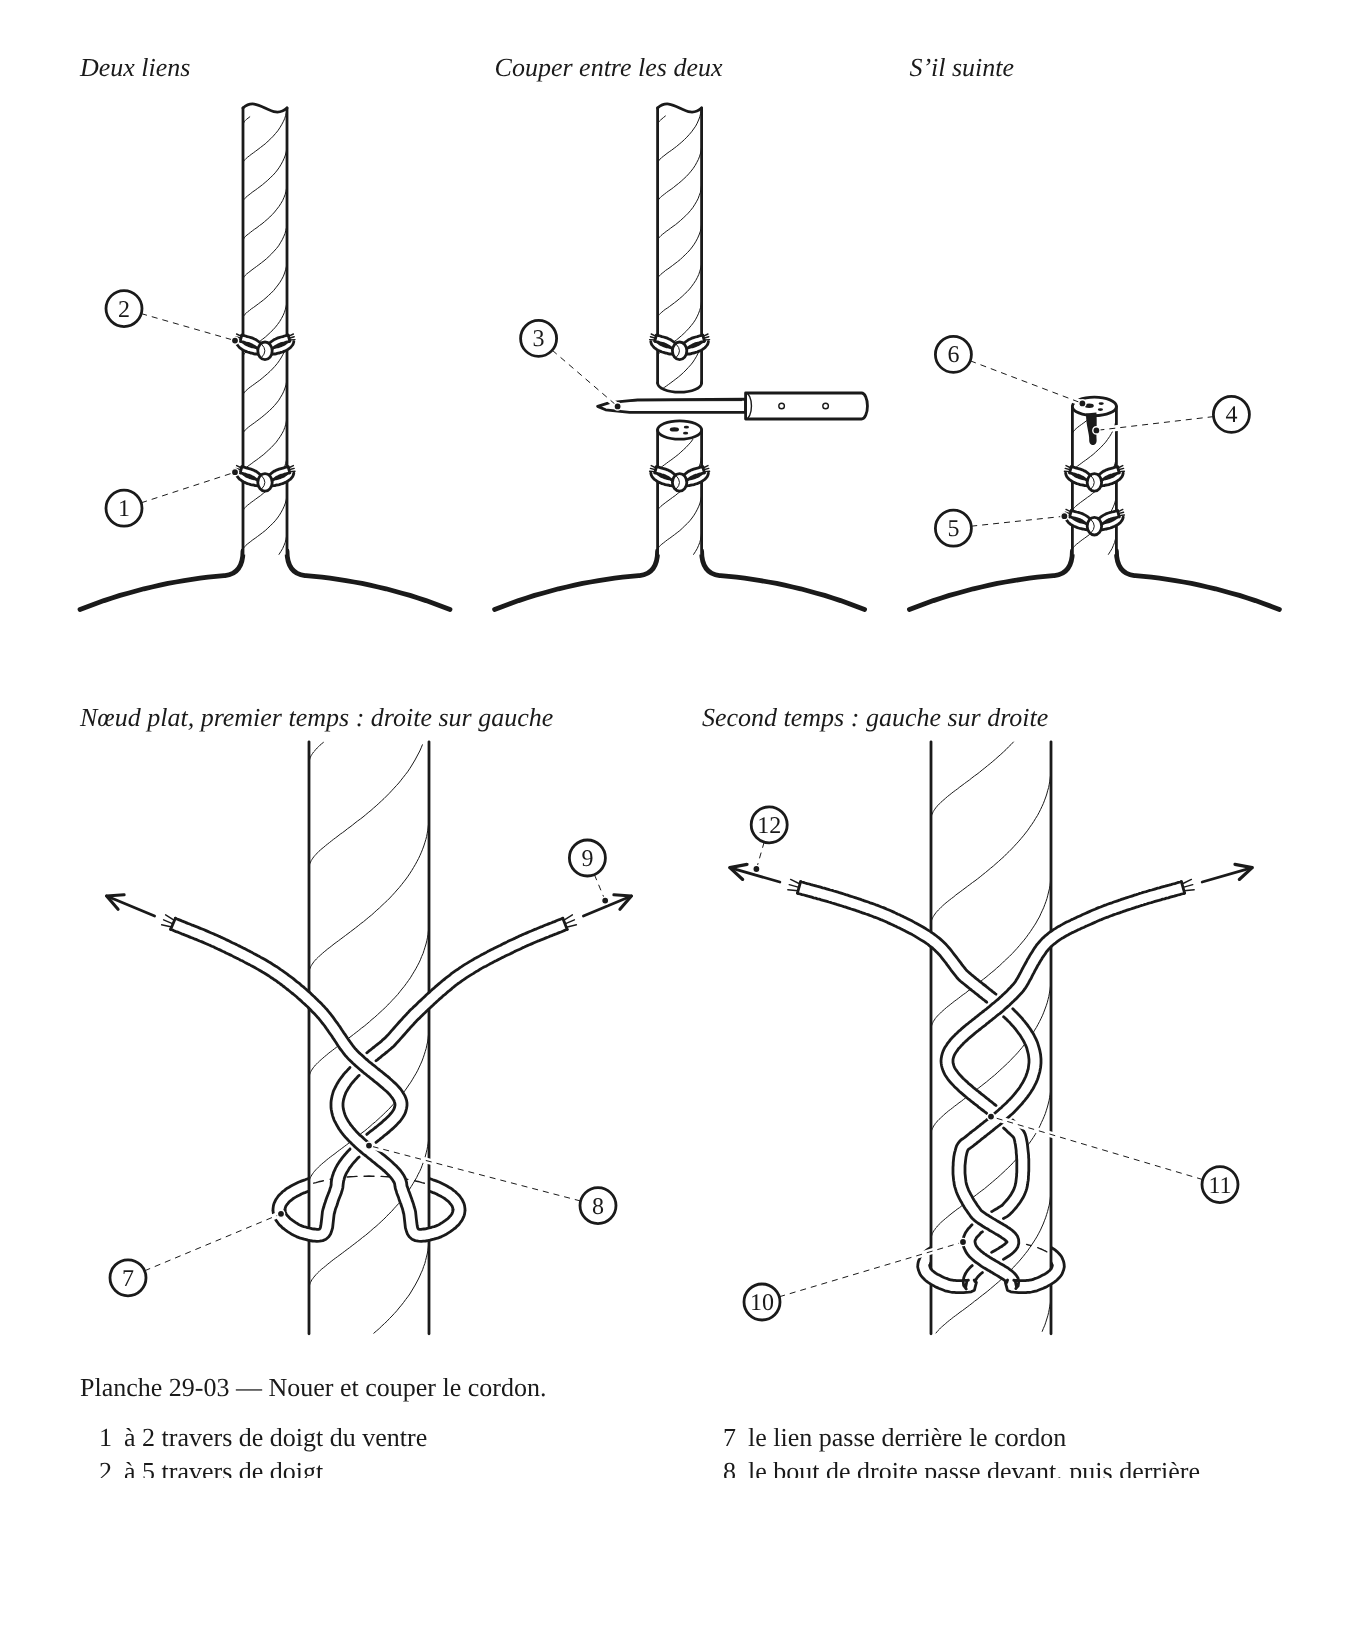
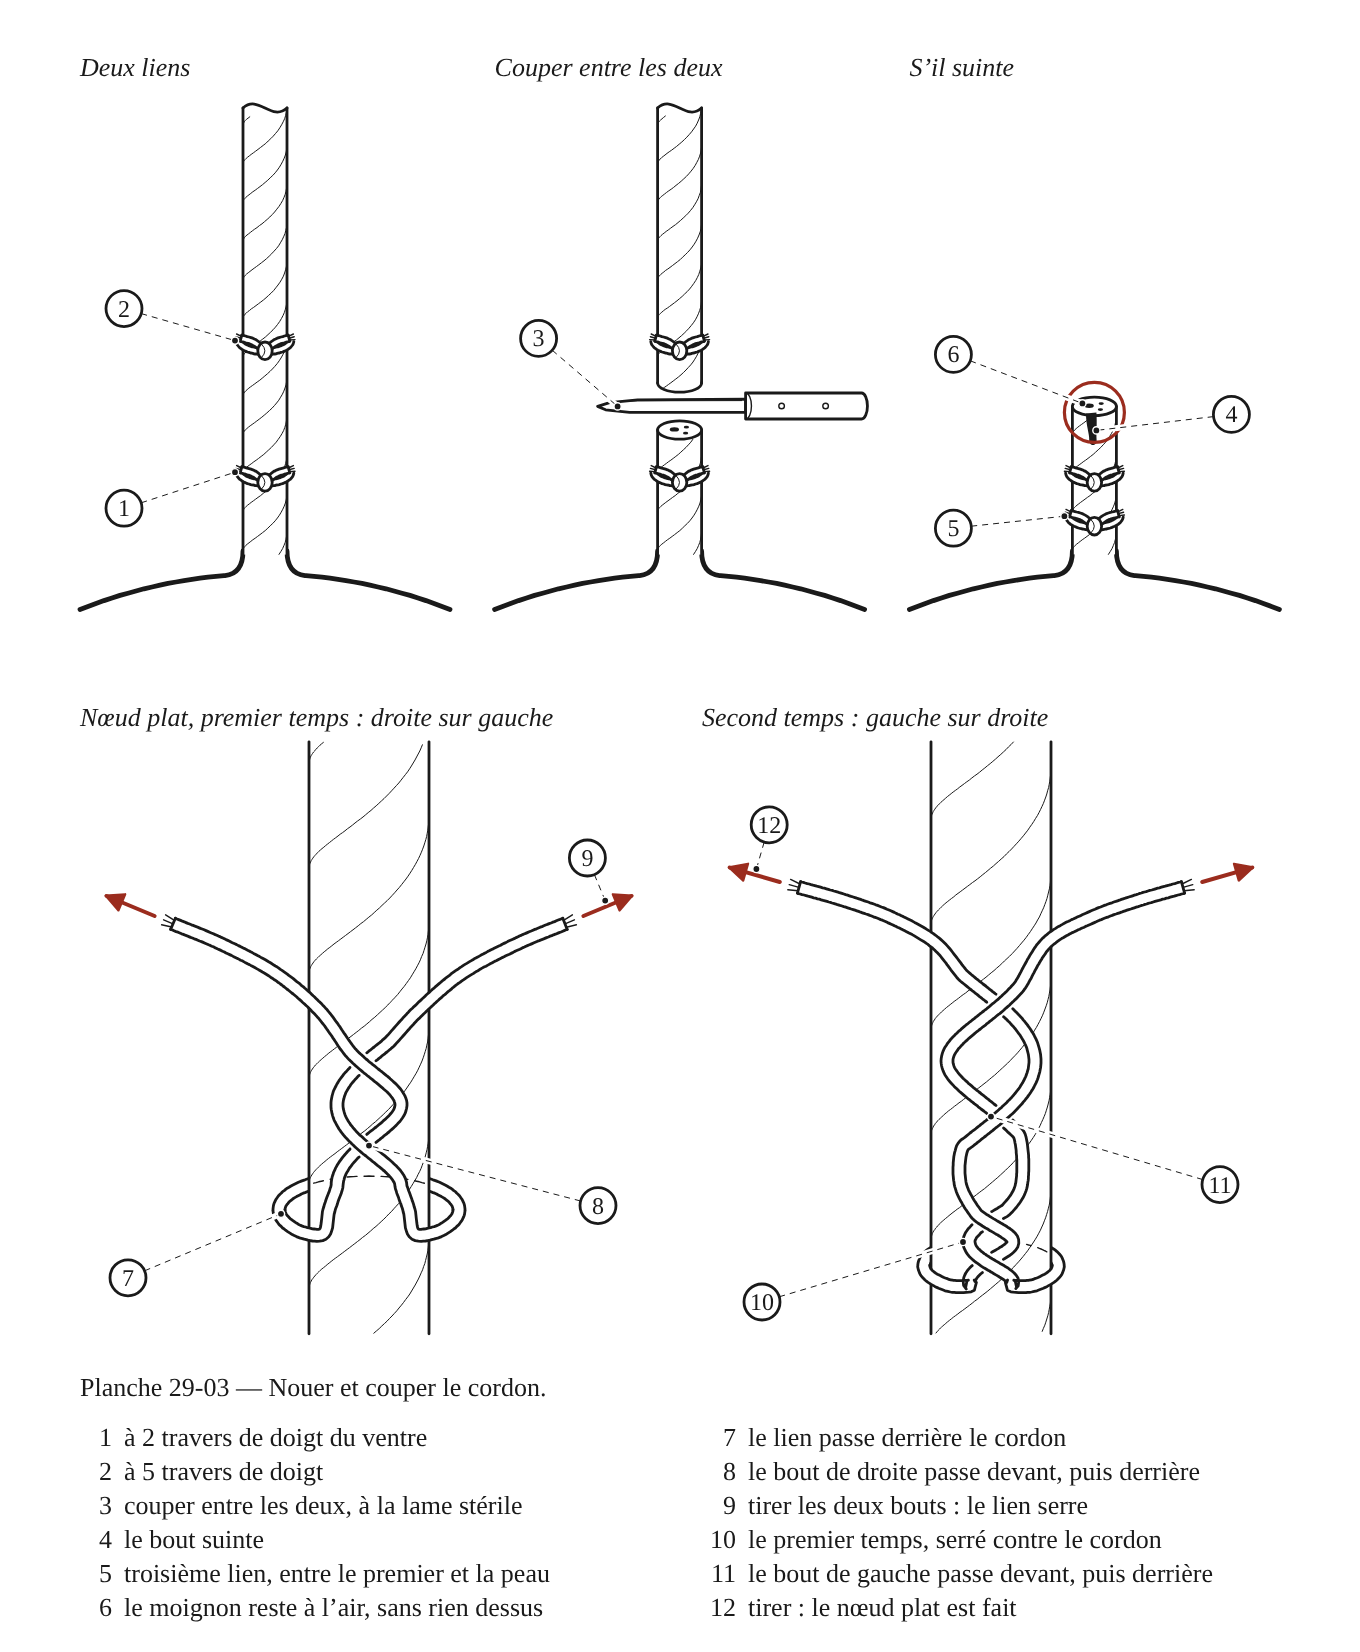
Charte et mains : travail en cours
Claude-Session: https://claude.ai/code/session_014xDY5FLxFXDJt3nYAYznSZ

diff --git a/images/planches-src/72-40.js b/images/planches-src/72-40.js
@@ -2,6 +2,10 @@
 // couler en deux temps ; en vignettes, les deux ratés (eau au fond, cratère de retrait).
 // Convention de la planche : gras liquide = blanc sous un trait de surface ; gras figé =
 // pointillé (motif neige) ; eau = tirets (motif eau).
+// La charte : au-dessus du contenu, l'air du contenant en gris loin (le gras liquide reste blanc et
+// se distingue enfin de l'air) ; le dedans du poêle en gris loin ; la face droite des cubes à
+// l'ombre. Le rouge : le chaudron qu'on écarte du centre, les cretons qui descendent (le signe), et
+// l'endroit de chaque raté. La fumée et les cretons qui tombent restent en noir.
 module.exports = (h) => {
   const blanc = t => t.replace('fill="none"', 'fill="#FFFFFF"');
 
@@ -44,6 +48,8 @@ module.exports = (h) => {
   // remplissage d'un contenant jusqu'à une surface (liste de points de gauche à droite)
   const remplir = (c, surface, at) => h.chemin([[c.xi0, c.yf], ...surface, [c.xi1, c.yf]], at, true);
   const plat = (c, y) => [[c.xi0, y], [c.xi1, y]];
+  // l'air au-dessus du contenu : on voit la paroi d'en face, en gris loin (le gras liquide reste blanc)
+  const air = (c, surface) => h.chemin([[c.xi0, c.yt], [c.xi1, c.yt], ...surface.slice().reverse()], h.a.loin, true);
 
   // louche : bol incliné de theta (radians, sens horaire), manche vers (mx, my)
   const louche = (bx, by, r, theta, mx, my) => {
@@ -85,7 +91,9 @@ module.exports = (h) => {
   const boite = (x, y, lx, hy, dx, dy) => [
     h.rect(x, y - hy, lx, hy, blanc(h.a.arete)),
     h.chemin([[x, y - hy], [x + lx, y - hy], [x + lx + dx, y - hy + dy], [x + dx, y - hy + dy]], blanc(h.a.arete), true),
-    h.chemin([[x + lx, y], [x + lx, y - hy], [x + lx + dx, y - hy + dy], [x + lx + dx, y + dy]], blanc(h.a.arete), true),
+    // la face de droite, à l'ombre
+    h.chemin([[x + lx, y], [x + lx, y - hy], [x + lx + dx, y - hy + dy], [x + lx + dx, y + dy]], h.a.ombre, true),
+    h.chemin([[x + lx, y], [x + lx, y - hy], [x + lx + dx, y - hy + dy], [x + lx + dx, y + dy]], h.a.arete, true),
   ];
 
   // géométries partagées entre dessin et renvois
@@ -189,8 +197,9 @@ module.exports = (h) => {
           const out = [];
           // le poêle en coupe : caisse, pattes, tuyau à gauche
           out.push(h.rect(xs0, ytop, xs1 - xs0, ybot - ytop, h.a.plein));
-          out.push(h.rect(xs0 + 3, ytop + 5, xs1 - xs0 - 6, ybot - ytop - 8, h.a.blanc));
-          out.push(h.rect(px0, ytop - 1, px1 - px0, 7, h.a.blanc));
+          // le dedans du poêle et du tuyau, vu par la coupe : en gris loin
+          out.push(h.rect(xs0 + 3, ytop + 5, xs1 - xs0 - 6, ybot - ytop - 8, h.a.loin));
+          out.push(h.rect(px0, 0, px1 - px0, ytop + 6, h.a.loin));
           out.push(h.rect(px0 - 2.5, 0, 2.5, ytop, h.a.plein), h.rect(px1, 0, 2.5, ytop, h.a.plein));
           out.push(h.rect(xs0 + 6, ybot, 6, 12, h.a.plein), h.rect(xs1 - 12, ybot, 6, 12, h.a.plein));
           // le feu, sous le centre
@@ -209,13 +218,14 @@ module.exports = (h) => {
           out.push(...f.murs);
           // le chaudron écarté, avec son fond d'eau et les cubes
           const c = chaudron(cxA, ytop, w, ht);
+          out.push(air(c, plat(c, g.yeau)));
           out.push(remplir(c, plat(c, g.yeau), h.a.hachure('eau', 'aucun')));
           out.push(h.ligne(c.xi0, g.yeau, c.xi1, g.yeau, h.a.detail));
           const cubes = [[-22, 0, 0.1], [-11, 1, -0.2], [0, 0, 0.3], [11, 1, 0], [22, 0, -0.3], [-16, -9, 0.4], [-5, -10, 0], [6, -9, -0.25], [17, -10, 0.2], [-10, -19, 0.1], [3, -19, -0.35], [14, -19, 0.3]];
           for (const [dx, dy, a] of cubes) if (Math.abs(dx) < (c.xi1 - c.xi0) / 2 - 5) out.push(cube(cxA + dx, g.yeau - 1 + dy, 9, a));
           out.push(...c.murs);
           // on le glisse hors du centre
-          out.push(h.fleche(`M ${xc} ${ytop - ht - 14} L ${c.x0 - 6} ${ytop - ht - 14}`, h.a.arete));
+          out.push(h.geste(`M ${xc} ${ytop - ht - 14} L ${c.x0 - 6} ${ytop - ht - 14}`));
           return out.join('\n');
         },
         renvois: z => {
@@ -233,6 +243,7 @@ module.exports = (h) => {
           const g = gFin(z);
           const c = chaudron(g.cx, g.yb, g.w, g.ht, { anse: false });
           const out = [];
+          out.push(air(c, plat(c, g.ys)));
           out.push(h.ligne(c.xi0, g.ys, c.xi1, g.ys, h.a.arete));
           // cretons au fond, et deux qui descendent
           const fond = [[-40, 0], [-31, -1], [-22, 0], [-13, -1], [-4, 0], [5, -1], [14, 0], [23, -1], [32, 0], [41, -1], [-26, -7], [-8, -7], [10, -7], [28, -7]];
@@ -241,6 +252,8 @@ module.exports = (h) => {
           out.push(creton(g.cx - 16, yd - 4, 1, 9), creton(g.cx + 20, yd + 2, 1, 9));
           out.push(h.fleche(`M ${g.cx - 16} ${yd + 1} L ${g.cx - 16} ${yd + 9}`, h.a.detail));
           out.push(h.fleche(`M ${g.cx + 20} ${yd + 7} L ${g.cx + 20} ${yd + 15}`, h.a.detail));
+          // le signe à guetter : les cretons dorés qui descendent
+          out.push(h.controle(g.cx - 16, yd + 1, 11));
           // un léger frémissement
           for (const dx of [-20, 6, 26]) out.push(h.cercle(g.cx + dx, g.ys + 3, 1.4, blanc(h.a.fin)));
           out.push(...c.murs);
@@ -261,6 +274,7 @@ module.exports = (h) => {
           const { cx, yR, rp, dp, ys } = g;
           const out = [];
           const c = chaudron(cx, g.yb, g.w, g.ht, { anse: false });
+          out.push(air(c, plat(c, ys)));
           out.push(h.ligne(c.xi0, ys, c.xi1, ys, h.a.arete));
           // la passoire : manche sur le bord gauche, oreille accrochée au bord droit
           const yp = yR - 3;
@@ -297,11 +311,15 @@ module.exports = (h) => {
           const { cx, yt, ys, creux } = g;
           const p = pot(cx, g.yb, g.w, g.ht);
           const out = [];
+          out.push(air(p, plat(p, ys)));
           out.push(remplir(p, plat(p, ys), h.a.blanc));
           out.push(h.ligne(p.xi0, ys, p.xi1, ys, h.a.arete));
           // le cerceau posé sur le bord, le coton replié dessus, le sac qui pend dedans
           const rw = 2.6;
           const xg = p.x0 + p.t / 2, xd = p.x1 - p.t / 2, yw = yt - rw - 1.5;
+          // le sac, plein de gras liquide : blanc sur le gris
+          out.push(h.path(`M ${xg + rw + 1} ${yw} C ${xg + 10} ${yt + creux * 0.7} ${cx - 22} ${yt + creux} ${cx} ${yt + creux}` +
+            ` C ${cx + 22} ${yt + creux} ${xd - 10} ${yt + creux * 0.7} ${xd - rw - 1} ${yw} Z`, h.a.blanc));
           for (let k = 0; k < 3; k++) {
             const e = k * 1.6;
             // de l'extérieur du pot, par-dessus le fil, jusqu'au fond du sac
@@ -342,12 +360,14 @@ module.exports = (h) => {
           const A = pot(g.cA, g.yb, g.w, g.ht);
           const yA = A.yf - (A.yf - A.yt) * 0.75;
           const crA = quad([A.xi0, yA], [g.cA, yA + 22], [A.xi1, yA]);
+          out.push(air(A, crA));
           out.push(remplir(A, crA, h.a.hachure('neige', 'aucun')));
           out.push(h.chemin(crA, h.a.arete));
           out.push(...A.murs);
           // second temps : la dernière louche comble le creux
           const B = pot(g.cB, g.yb, g.w, g.ht);
           const yB = B.yt + 7;
+          out.push(air(B, plat(B, yB)));
           out.push(remplir(B, crA.map(([x, y]) => [x - g.cA + g.cB, y]), h.a.hachure('neige', 'aucun')));
           out.push(h.chemin(crA.map(([x, y]) => [x - g.cA + g.cB, y]), h.a.cache));
           out.push(h.ligne(B.xi0, yB, B.xi1, yB, h.a.arete));
@@ -376,6 +396,7 @@ module.exports = (h) => {
           const ysurf = P.yt + 7;
           const yEau = P.yf - 12;
           // gras figé jusqu'en haut
+          out.push(air(P, plat(P, ysurf)));
           out.push(remplir(P, plat(P, ysurf), h.a.hachure('neige', 'aucun')));
           out.push(h.ligne(P.xi0, ysurf, P.xi1, ysurf, h.a.arete));
           // bande marbrée au-dessus de l'eau
@@ -393,6 +414,8 @@ module.exports = (h) => {
           out.push(h.rect(P.xi0, yEau, lm, P.yf - yEau, h.a.hachure('eau', 'aucun')));
           out.push(h.ligne(P.xi0, yEau, P.xi1, yEau, h.a.detail));
           out.push(...P.murs);
+          // le raté : la couche restée liquide au fond
+          out.push(h.controle(g.cx + 10, (yEau + P.yf) / 2, 11));
           // seconde ligne de rappel du renvoi 11, vers la bande marbrée (même trait que le compositeur)
           {
             const [rx, ry] = [14, g.yb - 14], [tx, ty] = [P.xi0 + lm * 0.3, yEau - 8];
@@ -419,9 +442,11 @@ module.exports = (h) => {
           const ybord = P.yt + 5;
           const cr = [[P.xi0, ybord], ...quad([P.xi0 + 6, ybord + 1], [g.cx, ybord + 58], [P.xi1 - 6, ybord + 1]), [P.xi1, ybord]];
           return [
+            air(P, cr),
             remplir(P, cr, h.a.hachure('neige', 'aucun')),
             h.chemin(cr, h.a.arete),
             ...P.murs,
+            h.controle(g.cx - 5, ybord + 25, 12),   // le raté : le creux du retrait
           ].join('\n');
         },
         renvois: z => {

diff --git a/images/planches-src/62-12.js b/images/planches-src/62-12.js
@@ -219,7 +219,7 @@ module.exports = (h) => ({
       titre: 'Les coupes',
       dessin: z => {
         const p = vignettePlace(z);
-        const out = ['<g transform="translate(0 14)">', C.dessiner(h, p, { id: 'v', valeur: { muscles: ['longe'], trame: 'gris' }, loin: 'fin' })];
+        const out = ['<g transform="translate(0 14)">', C.dessiner(h, p, { id: 'v', valeur: { muscles: ['longe'], trame: 'gris' }, loin: 'gris' })];
         [[X_A, 206, 482, 'A'], [X_B, 222, 476, 'B']].forEach(([x, y0, y1, l]) => {
           const a = p.pt([x, y0]), b = p.pt([x, y1]);
           out.push(h.ligne(a[0], a[1], b[0], b[1], h.a.arete));
@@ -248,7 +248,8 @@ module.exports = (h) => ({
           chemin(out, [[-100.5, -45], [-100.5, -26], [-99, -10], [-95.5, 8]].map(V));
           [[[-4.8, -130], [-4.8, -110]], [[-104, -76], [-102, -53]]].forEach(([a, b]) => {
             const A1 = V(a), B1 = V(b);
-            out.push(h.fleche(`M${f1(A1[0])} ${f1(A1[1])} L${f1(B1[0])} ${f1(B1[1])}`, h.a.arete));
+            // la charte : les deux entrées du couteau, les deux gestes de la coupe, en rouge
+            out.push(h.geste(`M${f1(A1[0])} ${f1(A1[1])} L${f1(B1[0])} ${f1(B1[1])}`));
           });
         },
       }),
@@ -279,7 +280,8 @@ module.exports = (h) => ({
           // le trait contre l'apophyse épineuse, puis la lame à plat sur la tablette jusqu'au bout
           chemin(out, [[-5.2, -77], [-5, -45], [-5.6, -31], [-10, -25], [-14.8, -12], [-19, -9.5], [-40, -9.4], [-64, -9.3], [-84, -9.6], [-91, -11]].map(V));
           const A1 = V([-5.2, -103]), B1 = V([-5.2, -83]);
-          out.push(h.fleche(`M${f1(A1[0])} ${f1(A1[1])} L${f1(B1[0])} ${f1(B1[1])}`, h.a.arete));
+          // la charte : l'entrée du couteau, le geste, en rouge
+          out.push(h.geste(`M${f1(A1[0])} ${f1(A1[1])} L${f1(B1[0])} ${f1(B1[1])}`));
         },
       }),
       renvois: z => {

diff --git a/images/planches-src/29-03.js b/images/planches-src/29-03.js
@@ -19,6 +19,10 @@
 // bas, derrière en haut. Les deux torsades tournent en sens contraire : c'est un nœud plat, pas un
 // nœud de vache. Le dessus / dessous de chaque croisement vient de la profondeur (z de
 // h.formes.cordes), pas d'un choix à l'œil.
+//
+// La charte : pas de gris (le cordon et le ventre sont un corps ; le lien est une corde). Le rouge :
+// les deux bouts qu'on tire, à chaque temps du nœud, et le cercle sur le bout coupé qui suinte, ce
+// qu'on regarde après la coupe.
 module.exports = (h) => {
   const RAD = Math.PI / 180;
   const f1 = v => Math.round(v * 10) / 10;
@@ -186,6 +190,7 @@ module.exports = (h) => {
     // le sang qui perle sur la coupe, coule sur le devant, une goutte qui tombe
     const c = P(0, YC, 0), yF = c[1] + Ro * Math.sin(Eo * RAD), x = c[0];
     o.push(h.path(`M${f1(x - 4.2)} ${f1(yF - 1.2)} C${f1(x - 4.2)} ${f1(yF + 5)} ${f1(x - 2.4)} ${f1(yF + 9)} ${f1(x - 2.6)} ${f1(yF + 12)} C${f1(x - 2.8)} ${f1(yF + 15.5)} ${f1(x + 1.4)} ${f1(yF + 15.5)} ${f1(x + 1.1)} ${f1(yF + 12)} C${f1(x + 0.9)} ${f1(yF + 8)} ${f1(x + 1.4)} ${f1(yF + 4)} ${f1(x + 1)} ${f1(yF - 1.6)} Z`, h.a.plein));
+    o.push(h.controle(x, c[1] + 3, 15));          // le bout coupé : s'il suinte, un troisième lien
     return o.join('\n');
   };
 
@@ -216,7 +221,7 @@ module.exports = (h) => {
     fin();
     o.push(h.formes.cordes([brin(As.slice(kA), 'ouvert'), brin(Bs.slice(kB), 'ouvert')]).toString());
   };
-  const fleche = (o, a, b) => o.push(h.fleche(`M${f1(a[0])} ${f1(a[1])} L${f1(b[0])} ${f1(b[1])}`, h.a.arete));
+  const fleche = (o, a, b) => o.push(h.geste(`M${f1(a[0])} ${f1(a[1])} L${f1(b[0])} ${f1(b[1])}`));
   // la flèche de tirage, dans le prolongement du bout
   const tirer = (o, P, pts) => {
     const a = P(...pts[pts.length - 2]), b = P(...pts[pts.length - 1]);

diff --git a/.claude/skills/planches/scripts/mains/moteur.js b/.claude/skills/planches/scripts/mains/moteur.js
@@ -1261,10 +1261,13 @@ function construire(o, prep = null) {
       // arrondie de l'olécrane (l'éventail seul en faisait un tuyau coudé)
       if (flex > 0.5) {
         const kE = u3(x3(dA3, dB3)), K = Math.max(4, Math.ceil(flex / 6)), ev = [];
-        const rw = (wA[0] + wA[1] + wA[2] + wA[3]) / 4, bis = u3(s3(dA3, dB3)), kO = 0.3 * rw * (t0 => t0 * t0 * (3 - 2 * t0))(Math.max(0, Math.min(1, (flex - 30) / 60)));
+        const lisse = t0 => { const v = Math.max(0, Math.min(1, t0)); return v * v * (3 - 2 * v); };
+        const rw = (wA[0] + wA[1] + wA[2] + wA[3]) / 4, bis = u3(s3(dA3, dB3));
+        // (replié serré, la pointe s'affine : sinon un talon de chaussette)
+        const kO = rw * (0.3 * lisse((flex - 30) / 60) + 0.12 * lisse((flex - 90) / 45)), kF = 0.2 * lisse((flex - 80) / 50);
         for (let j = 0; j <= K; j++) {
           const t = j / K, d = u3(rot3(dA3, kE, flex * t)), b = Math.sin(Math.PI * t) ** 2;
-          ev.push(section(a3(cE, m3(bis, kO * b)), frEn(d), wA).map(p2));
+          ev.push(section(a3(cE, m3(bis, kO * b)), frEn(d), wA.map(v => v * (1 - kF * b))).map(p2));
         }
         for (let j = 0; j < K; j++) polysBR.push(enveloppe(ev[j].concat(ev[j + 1])));
       }
